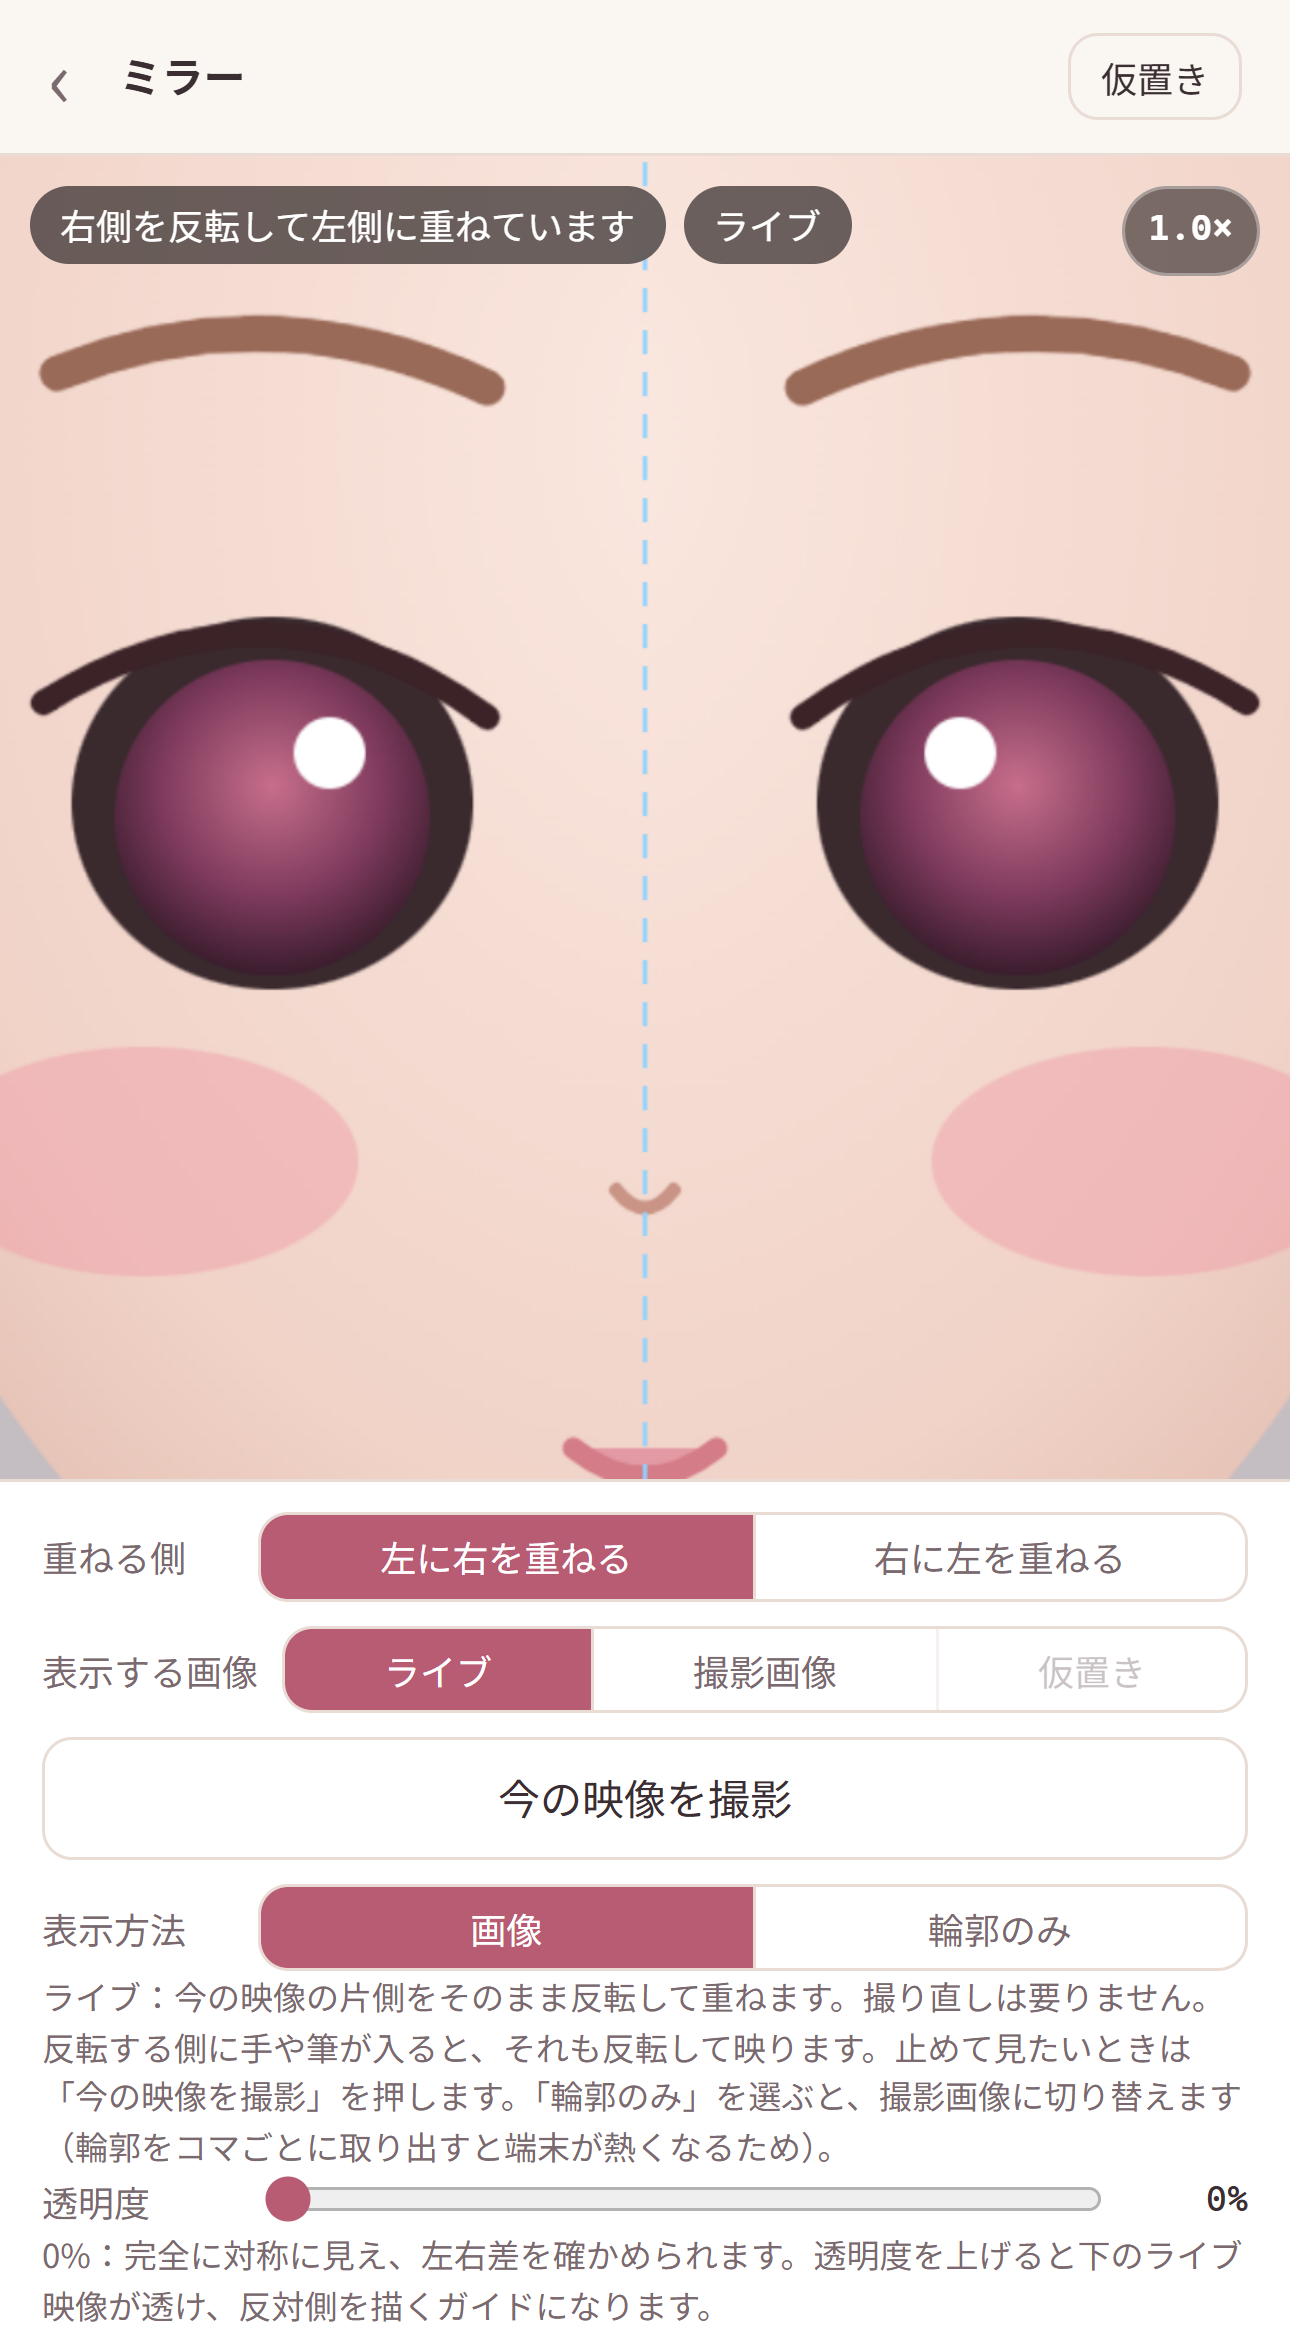
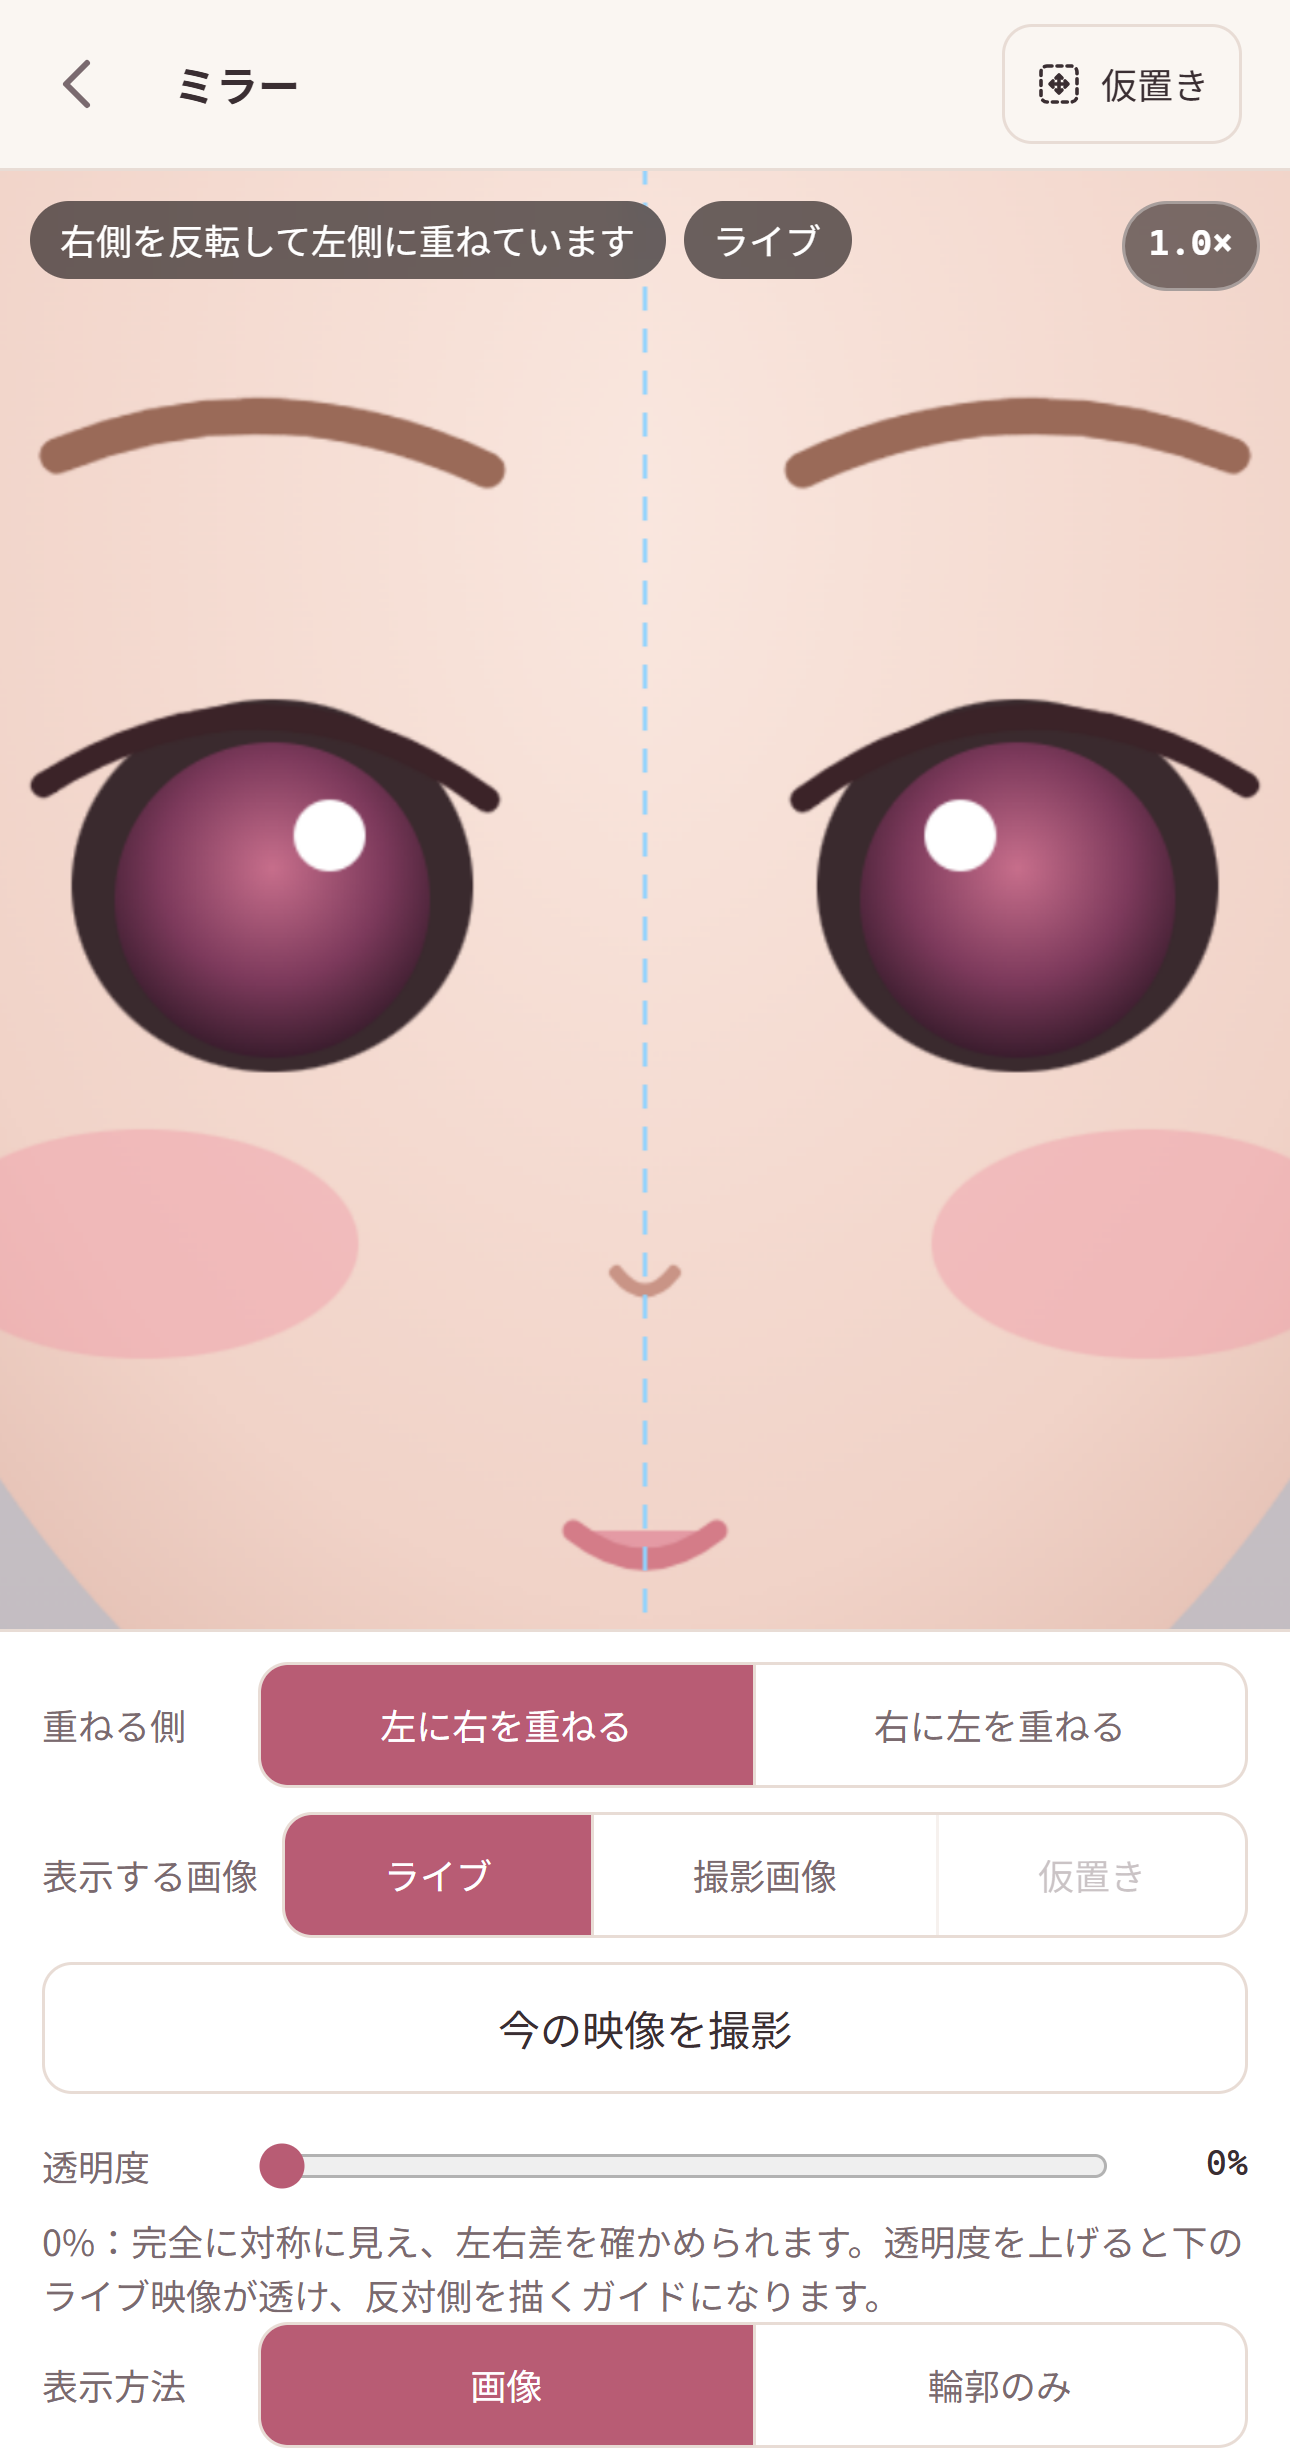
画面の見直し（低）：アイコンと文字の大きさ
仮置きのアイコンを描き直し、画面へ移るボタン・押して反転・合わせ方・
設置ガイドにアイコンを付ける。移動の矢印と回転をアイコンにする。
補足の文字を 12px 以上にし、ヘッダーの丸いボタンの押せる範囲を広げる。
README のスクリーンショットを撮り直す。

diff --git a/index.html b/index.html
@@ -29,9 +29,9 @@
       <button class="back" id="btn-back" data-show="face mirror sim setup settings" aria-label="戻る"><svg viewBox="0 0 24 24" aria-hidden="true" fill="none" stroke="currentColor" stroke-width="2" stroke-linecap="round" stroke-linejoin="round" width="24" height="24"><path d="M15 5l-7 7 7 7"/></svg></button>
       <div class="bar-title" id="bar-title" data-show="face mirror sim setup settings"></div>
       <span class="grow" data-show="home"></span>
-      <button class="btn btn-ghost btn-s" data-show="face" id="btn-face-help">合わせ方</button>
-      <button class="btn btn-ghost btn-s" data-show="mirror" id="btn-m-sim">仮置き</button>
-      <button class="btn btn-ghost btn-s" data-show="sim" id="btn-sim-mirror">ミラーへ</button>
+      <button class="btn btn-ghost btn-s" data-show="face" id="btn-face-help"><svg class="ic" viewBox="0 0 24 24" aria-hidden="true" fill="none" stroke="currentColor" stroke-width="1.8" stroke-linecap="round" stroke-linejoin="round" width="16" height="16"><circle cx="12" cy="12" r="9"/><path d="M9.6 9.3a2.5 2.5 0 1 1 3.3 2.4c-.6.2-.9.7-.9 1.3v.5"/><circle cx="12" cy="16.8" r=".6" fill="currentColor"/></svg>合わせ方</button>
+      <button class="btn btn-ghost btn-s" data-show="mirror" id="btn-m-sim"><svg class="ic" viewBox="0 0 24 24" aria-hidden="true" fill="none" stroke="currentColor" stroke-width="1.8" stroke-linecap="round" stroke-linejoin="round" width="16" height="16"><rect x="3" y="3" width="18" height="18" rx="3" stroke-dasharray="2.5 2.5"/><path d="M12 7.5v9M7.5 12h9M10.5 9l1.5-1.5 1.5 1.5M10.5 15l1.5 1.5 1.5-1.5M9 10.5L7.5 12 9 13.5M15 10.5l1.5 1.5-1.5 1.5"/></svg>仮置き</button>
+      <button class="btn btn-ghost btn-s" data-show="sim" id="btn-sim-mirror"><svg class="ic" viewBox="0 0 24 24" aria-hidden="true" fill="none" stroke="currentColor" stroke-width="1.8" stroke-linecap="round" stroke-linejoin="round" width="16" height="16"><path d="M12 3v18" stroke-dasharray="2.5 2"/><path d="M10 6H5v12h5M14 6h5v12h-5"/></svg>ミラーへ</button>
       <button class="round-btn" data-show="home" data-go="settings" title="設定" aria-label="設定">
         <svg viewBox="0 0 24 24" width="18" height="18" aria-hidden="true"><circle cx="12" cy="12" r="3" fill="none" stroke="currentColor" stroke-width="1.7"/><path fill="none" stroke="currentColor" stroke-width="1.7" stroke-linejoin="round" d="M12 2.8l1.6 2.3 2.7-.6.6 2.7 2.3 1.6-1.2 2.5 1.2 2.5-2.3 1.6-.6 2.7-2.7-.6L12 21.2l-1.6-2.3-2.7.6-.6-2.7-2.3-1.6L6 12.7 4.8 10.2l2.3-1.6.6-2.7 2.7.6z"/></svg>
       </button>
@@ -101,7 +101,7 @@
                 <span class="nav-text"><b>顔位置設定</b><small>ヘッドを中心線と元の位置に合わせて撮影する</small></span>
               </button>
               <button class="btn" id="btn-sim">
-                <svg viewBox="0 0 24 24" aria-hidden="true"><path d="M5 9q4-3 8 0" stroke="currentColor" stroke-width="1.8" fill="none" stroke-linecap="round"/><path d="M11 15q4-3 8 0" stroke="currentColor" stroke-width="1.8" fill="none" stroke-linecap="round" stroke-dasharray="2 2"/><path d="M14 10l2 3" stroke="currentColor" stroke-width="1.5" stroke-linecap="round"/></svg>
+                <svg viewBox="0 0 24 24" aria-hidden="true" fill="none" stroke="currentColor" stroke-width="1.8" stroke-linecap="round" stroke-linejoin="round"><rect x="3" y="3" width="18" height="18" rx="3" stroke-dasharray="2.5 2.5"/><path d="M12 7.5v9M7.5 12h9M10.5 9l1.5-1.5 1.5 1.5M10.5 15l1.5 1.5 1.5-1.5M9 10.5L7.5 12 9 13.5M15 10.5l1.5 1.5-1.5 1.5"/></svg>
                 <span class="nav-text"><b>仮置き</b><small>撮影画像の上で、メイクを動かしてみる</small></span>
               </button>
             </div>
@@ -110,10 +110,10 @@
             <span class="lbl">左右反転</span>
             <span class="hint grow" style="margin:0">押している間だけ映像を鏡のように反転して、全体のバランスを見ます</span>
             <!-- 修正前と同じく押している間だけ（戻し忘れて左右を取り違えないように。押す・離すで見比べやすい） -->
-            <button class="btn btn-ghost btn-s hold" id="btn-flip" title="押している間だけ左右反転して表示">押して反転</button>
+            <button class="btn btn-ghost btn-s hold" id="btn-flip" title="押している間だけ左右反転して表示"><svg class="ic" viewBox="0 0 24 24" aria-hidden="true" fill="none" stroke="currentColor" stroke-width="1.8" stroke-linecap="round" stroke-linejoin="round" width="16" height="16"><path d="M12 3v18" stroke-dasharray="2 2"/><path d="M9 7L4 12l5 5z"/><path d="M15 7l5 5-5 5z"/></svg>押して反転</button>
           </div>
           <div class="row">
-            <button class="btn btn-ghost btn-s" data-go="setup">設置ガイド</button>
+            <button class="btn btn-ghost btn-s" data-go="setup"><svg class="ic" viewBox="0 0 24 24" aria-hidden="true" fill="none" stroke="currentColor" stroke-width="1.8" stroke-linecap="round" stroke-linejoin="round" width="16" height="16"><path d="M4 5.5A2.5 2.5 0 016.5 3H20v15H6.5A2.5 2.5 0 004 20.5zM4 20.5A2.5 2.5 0 006.5 23H20v-5"/></svg>設置ガイド</button>
             <span class="hint" style="margin:0" id="home-hint">水準器・照明・ピンぼけは顔位置設定に出ます</span>
           </div>
         </div>
@@ -231,12 +231,12 @@
             </div>
             <div class="row" data-tab="move" style="margin-top:8px;align-items:flex-start">
               <div class="pad" aria-label="移動">
-                <span></span><button data-mv="0,-1">↑</button><span></span>
-                <button data-mv="-1,0">←</button><span></span><button data-mv="1,0">→</button>
-                <span></span><button data-mv="0,1">↓</button><span></span>
+                <span></span><button data-mv="0,-1" aria-label="上へ"><svg class="ic" viewBox="0 0 24 24" aria-hidden="true" fill="none" stroke="currentColor" stroke-width="1.8" stroke-linecap="round" stroke-linejoin="round" width="18" height="18"><path d="M12 19V5M6 11l6-6 6 6"/></svg></button><span></span>
+                <button data-mv="-1,0" aria-label="左へ"><svg class="ic" viewBox="0 0 24 24" aria-hidden="true" fill="none" stroke="currentColor" stroke-width="1.8" stroke-linecap="round" stroke-linejoin="round" width="18" height="18"><path d="M19 12H5M11 6l-6 6 6 6"/></svg></button><span></span><button data-mv="1,0" aria-label="右へ"><svg class="ic" viewBox="0 0 24 24" aria-hidden="true" fill="none" stroke="currentColor" stroke-width="1.8" stroke-linecap="round" stroke-linejoin="round" width="18" height="18"><path d="M5 12h14M13 6l6 6-6 6"/></svg></button>
+                <span></span><button data-mv="0,1" aria-label="下へ"><svg class="ic" viewBox="0 0 24 24" aria-hidden="true" fill="none" stroke="currentColor" stroke-width="1.8" stroke-linecap="round" stroke-linejoin="round" width="18" height="18"><path d="M12 5v14M6 13l6 6 6-6"/></svg></button><span></span>
               </div>
               <div class="grow" style="display:grid;gap:5px">
-                <div class="row wrap" style="row-gap:8px"><span class="lbl short">回転</span><div class="fine"><button class="btn" data-rot="-1">⟲</button><button class="btn" data-rot="1">⟳</button></div><button class="btn btn-ghost btn-s" id="btn-pivot" aria-pressed="false" title="画像をタップした位置を回転の支点にします">支点</button></div>
+                <div class="row wrap" style="row-gap:8px"><span class="lbl short">回転</span><div class="fine"><button class="btn" data-rot="-1" aria-label="左に回す"><svg class="ic" viewBox="0 0 24 24" aria-hidden="true" fill="none" stroke="currentColor" stroke-width="1.8" stroke-linecap="round" stroke-linejoin="round" width="18" height="18"><path d="M4 4v5h5"/><path d="M5.2 13.5A7 7 0 1 0 6 8.2L4 9"/></svg></button><button class="btn" data-rot="1" aria-label="右に回す"><svg class="ic" viewBox="0 0 24 24" aria-hidden="true" fill="none" stroke="currentColor" stroke-width="1.8" stroke-linecap="round" stroke-linejoin="round" width="18" height="18"><path d="M20 4v5h-5"/><path d="M18.8 13.5A7 7 0 1 1 18 8.2L20 9"/></svg></button></div><button class="btn btn-ghost btn-s" id="btn-pivot" aria-pressed="false" title="画像をタップした位置を回転の支点にします">支点</button></div>
               </div>
             </div>
             <!-- 大きさ：全体・長さ・太さをそれぞれのボタンで変える（方向の切り替えは無い）。長さ・太さはパーツの長い方向と、それに直角な方向 -->

diff --git a/css/style.css b/css/style.css
@@ -70,6 +70,9 @@ button, select, input[type="range"], label { touch-action: manipulation; }
   border: 1px solid var(--line); border-radius: 50%; background: var(--surface); color: var(--ink-2); cursor: pointer;
 }
 .round-btn:hover { color: var(--accent); border-color: var(--accent); }
+/* 見た目は 36px のまま、押せる範囲を 44px に広げる */
+.round-btn { position: relative; }
+.round-btn::before { content: ""; position: absolute; inset: -4px; border-radius: 50%; }
 
 .update-bar {
   flex: none; display: flex; align-items: center; gap: 8px 10px; flex-wrap: wrap;
@@ -149,7 +152,7 @@ body[data-screen="sim"] .panel { max-height: 53%; }
 .row.wrap { flex-wrap: wrap; }
 .lbl { font-size: 12px; color: var(--ink-2); white-space: nowrap; min-width: 64px; }
 .lbl.short { min-width: 36px; }
-.hint { font-size: 11px; color: var(--ink-2); margin: 6px 0 0; line-height: 1.5; }
+.hint { font-size: 12px; color: var(--ink-2); margin: 6px 0 0; line-height: 1.5; }
 .hint.warn { color: var(--ok); }
 .btn {
   display: inline-flex; align-items: center; justify-content: center; gap: 6px;
@@ -164,10 +167,13 @@ a.btn { color: inherit; text-decoration: none; }
 .btn-ghost { background: transparent; }
 .btn-danger { color: var(--bad); border-color: color-mix(in srgb, var(--bad) 40%, transparent); background: transparent; }
 .btn-s { padding: 4px 10px; font-size: 12px; min-height: 40px; }
+.btn .ic { flex: none; }
+.pad button { display: grid; place-items: center; color: var(--ink); }
+.pad button:disabled, .fine .btn:disabled { opacity: .45; }
 .btn-l { min-height: 44px; }
 /* 押している間だけ効くボタン：名前の下に小さく「押している間」と添える */
 .btn.hold-2 { flex-direction: column; gap: 0; line-height: 1.2; }
-.btn.hold-2 small { font-size: 10px; opacity: .75; }
+.btn.hold-2 small { font-size: 11px; opacity: .75; }
 .vis-toggle { display: inline-flex; align-items: center; gap: 6px; min-height: 40px; font-size: 12px; color: var(--ink-2); cursor: pointer; }
 .btn.wrap-text { white-space: normal; text-align: center; line-height: 1.4; }
 .btn-block { width: 100%; margin-top: 8px; }
@@ -178,7 +184,7 @@ a.btn { color: inherit; text-decoration: none; }
 .seg button + button { border-left: 1px solid var(--line); }
 .seg button.on { background: var(--accent); color: #fff; }
 .seg button:disabled { opacity: .4; cursor: not-allowed; }
-.seg button small { display: block; font-size: 10px; opacity: .85; }
+.seg button small { display: block; font-size: 11px; opacity: .85; }
 /* タブ（仮置きのパネル）：選ぶ項目（塗りつぶし）と見分けられるよう、選んでいるタブは淡い色にする */
 #sim-tab button.on { background: var(--accent-2); color: var(--accent); font-weight: 700; }
 /* 長さの違う名前（ライブ／撮影画像／シミュレーション）を1行に収めるため、幅を文字の長さに合わせて分ける */
@@ -196,7 +202,7 @@ input[type=range] { accent-color: var(--accent); width: 100%; min-width: 0; heig
 .nav-text { display: flex; flex-direction: column; gap: 1px; min-width: 0; }
 .nav-text b { font-size: 14px; }
 .nav-sub .nav-text b { font-size: 13px; }
-.nav-text small { font-size: 10.5px; font-weight: 400; opacity: .8; line-height: 1.35; white-space: normal; }
+.nav-text small { font-size: 11.5px; font-weight: 400; opacity: .8; line-height: 1.35; white-space: normal; }
 /* 続けて押す微調整のボタンは、隣を押し間違えないように大きく、間を空ける */
 .fine { display: flex; gap: 8px; flex-wrap: nowrap; flex: none; }
 .fine .btn { padding: 4px 8px; font-size: 13px; min-width: 44px; min-height: 40px; }
@@ -221,7 +227,7 @@ select { border: 1px solid var(--line); border-radius: 8px; padding: 4px 8px; ba
 .badge { font-size: 11px; padding: 1px 8px; border-radius: 999px; background: var(--surface-2); color: var(--ink-2); font-weight: 400; }
 .set { display: flex; align-items: center; gap: 10px; padding: 8px 0; border-top: 1px solid var(--line); font-size: 13px; }
 .card h2 + .set { border-top: 0; }
-.set .grow small { display: block; font-size: 11px; color: var(--ink-2); line-height: 1.4; }
+.set .grow small { display: block; font-size: 12px; color: var(--ink-2); line-height: 1.4; }
 .switch { appearance: none; -webkit-appearance: none; width: 42px; height: 26px; border-radius: 999px; background: var(--line); position: relative; cursor: pointer; flex: none; transition: background .2s; margin: 0; }
 .switch::after { content: ""; position: absolute; left: 3px; top: 3px; width: 20px; height: 20px; border-radius: 50%; background: #fff; transition: left .2s; box-shadow: 0 1px 2px rgba(0,0,0,.2); }
 .switch:checked { background: var(--accent); }

diff --git a/js/version.js b/js/version.js
@@ -1,4 +1,4 @@
 // アプリの版。画面（ヘッダーと「このアプリについて」）に表示し、Service Worker のキャッシュ名にも使う。
 // 公開する変更では、この値を上げる（利用者の端末に「新しい版があります」と知らせ、古いキャッシュを消す）
 // 0.x：初期版を公開する前の版。公開して他のユーザーが使えるようにするときに 1.0.0 にする
-const APP_VERSION = '0.4.43';
+const APP_VERSION = '0.4.44';
